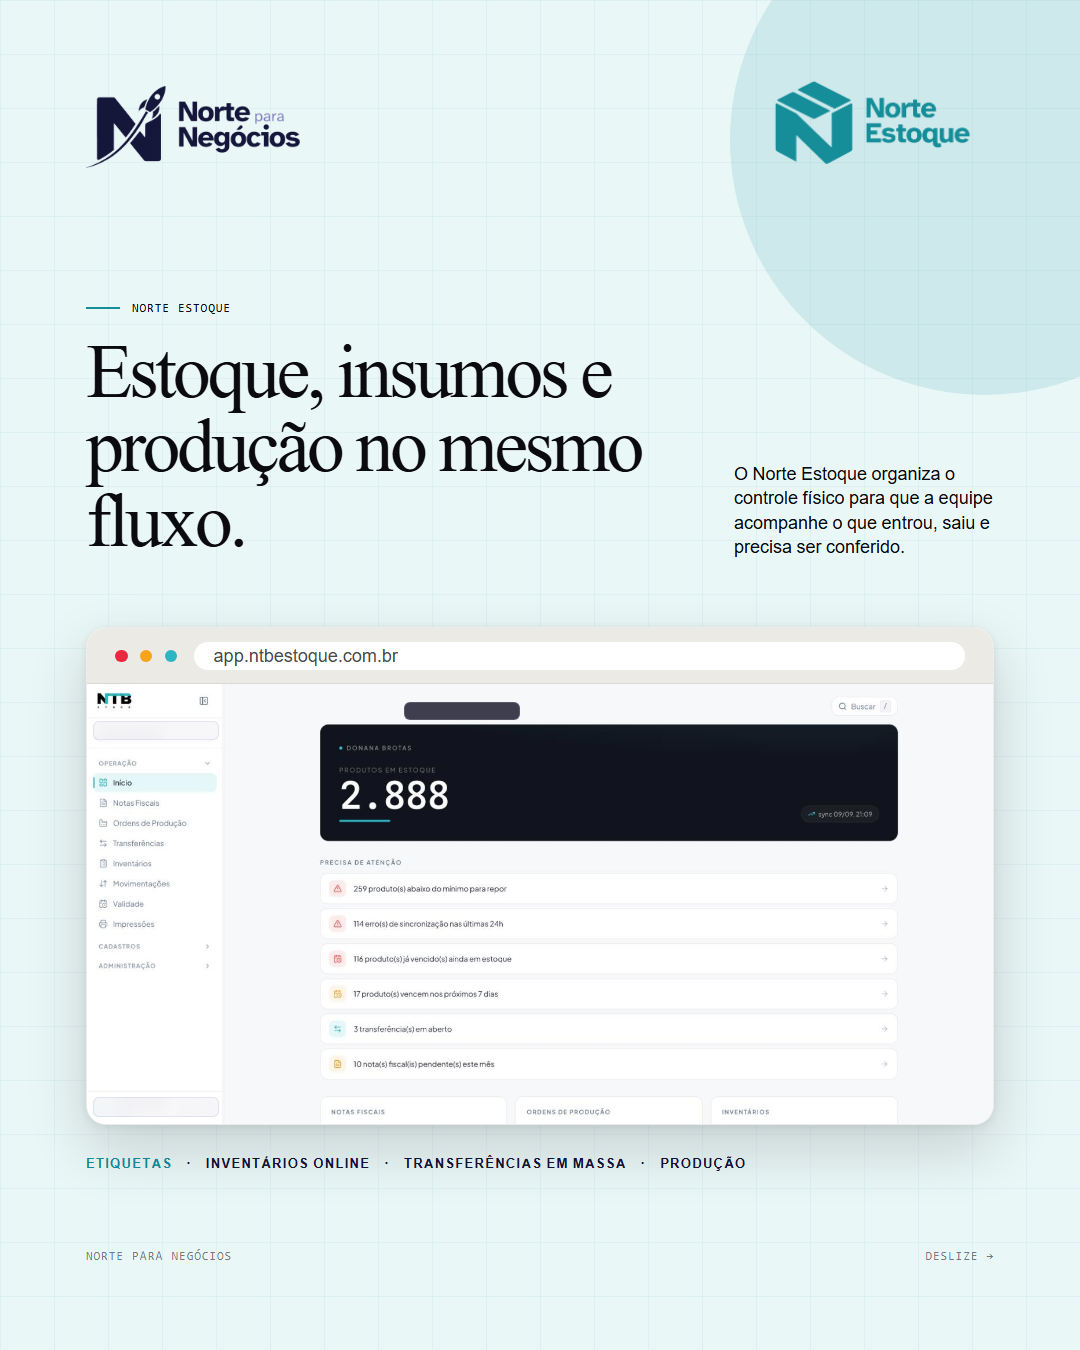
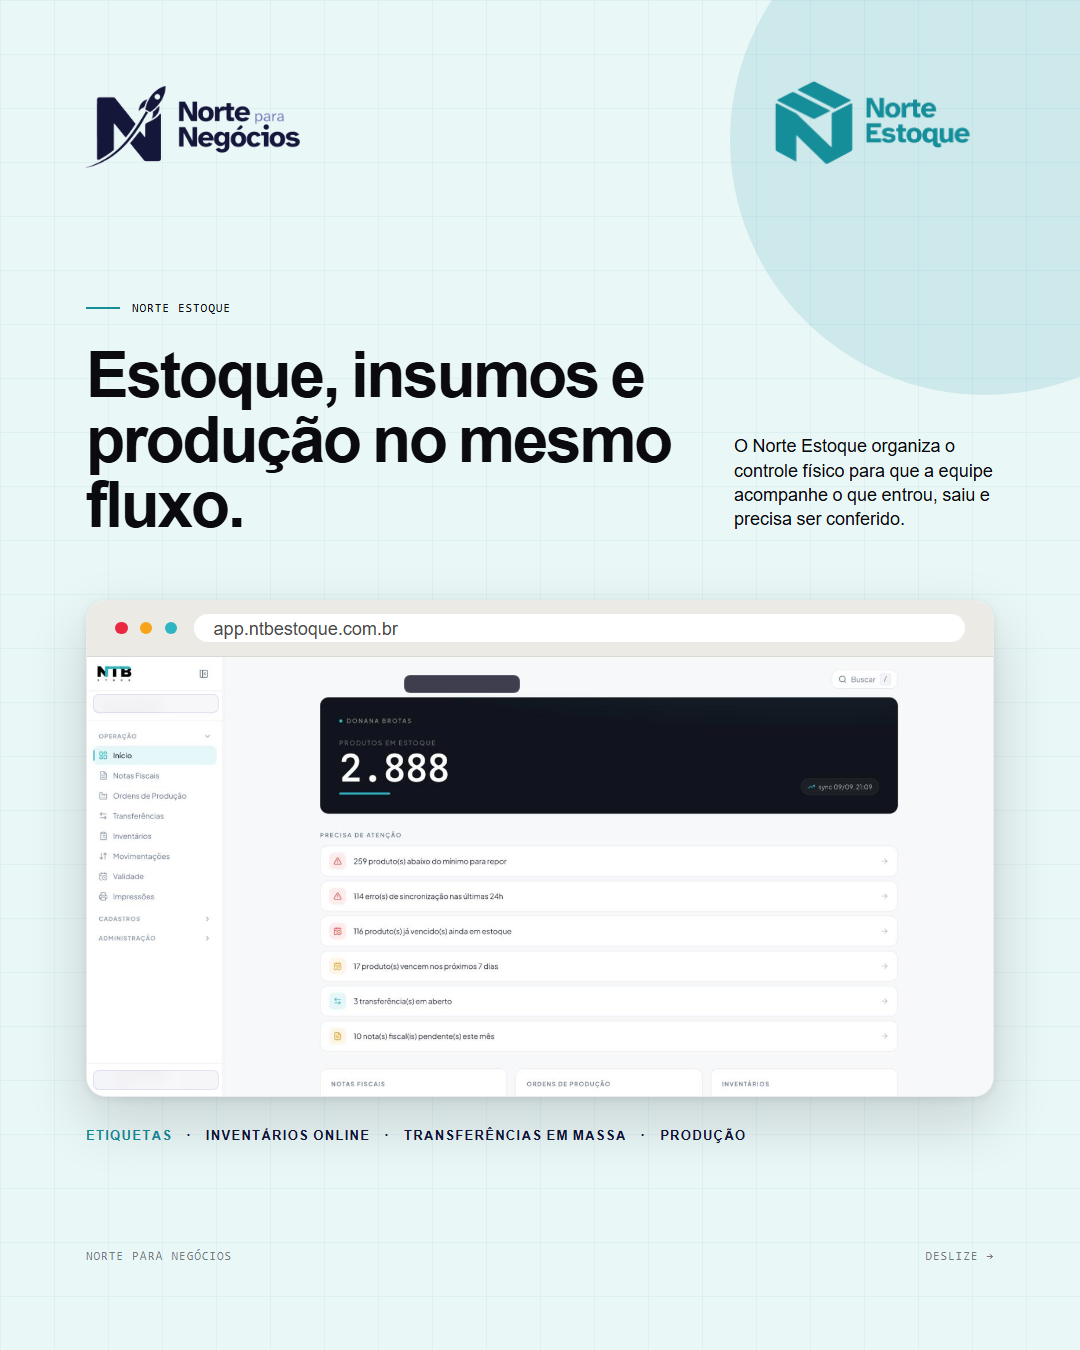
Alinha carrossel à identidade visual atual

Changed region(s): [[0.0611, 0.3111, 0.9167, 0.8711], [0.0611, 0.2489, 0.6417, 0.4044]]

diff --git a/src/templates/NorteNtbApresentacao.tsx b/src/templates/NorteNtbApresentacao.tsx
@@ -1,6 +1,6 @@
 import React from 'react';
 import {AbsoluteFill, Img, staticFile} from 'remotion';
-import {ensureSansLoaded, ensureMonoLoaded, ensureNewsreaderLoaded, FONT_SANS, FONT_MONO, FONT_SERIF_ROTAS} from '../lib/fonts';
+import {ensureSansLoaded, ensureMonoLoaded, FONT_SANS, FONT_MONO} from '../lib/fonts';
 import {GridTexture} from '../lib/GridTexture';
 import {BrowserFrame} from '../lib/DeviceFrame';
 import {productColors, neutral, brand} from '../lib/themes';
@@ -16,7 +16,6 @@ const WHITE = '#FBFBFE';
 function loadFonts(): void {
   ensureSansLoaded();
   ensureMonoLoaded();
-  ensureNewsreaderLoaded();
 }
 
 const Wordmark: React.FC<{light?: boolean}> = ({light = false}) => (
@@ -75,7 +74,7 @@ export const CarrosselCapa: React.FC = () => {
         <div style={{marginTop: 254, maxWidth: 850}}>
           <Overline light color={productColors.vendas}>Norte para Negócios · consultoria e sistemas</Overline>
           <div style={{height: 30}} />
-          <h1 style={{fontFamily: FONT_SERIF_ROTAS, fontWeight: 400, fontSize: 92, lineHeight: 0.98, letterSpacing: '-0.045em', margin: 0}}>
+          <h1 style={{fontFamily: FONT_SANS, fontWeight: 650, fontSize: 76, lineHeight: 1.02, letterSpacing: '-0.035em', maxWidth: 820, margin: 0}}>
             Damos o norte para a sua operação.
           </h1>
           <div style={{height: 34}} />
@@ -103,7 +102,7 @@ export const CarrosselSolucoes: React.FC = () => {
         <div style={{marginTop: 190}}>
           <Overline>Soluções Norte</Overline>
           <div style={{height: 30}} />
-          <h1 style={{fontFamily: FONT_SERIF_ROTAS, fontWeight: 400, fontSize: 70, lineHeight: 1.02, letterSpacing: '-0.04em', maxWidth: 820, margin: 0}}>
+          <h1 style={{fontFamily: FONT_SANS, fontWeight: 650, fontSize: 64, lineHeight: 1.04, letterSpacing: '-0.035em', maxWidth: 820, margin: 0}}>
             A Norte transforma problemas da operação em soluções práticas.
           </h1>
           <p style={{fontFamily: FONT_SANS, fontSize: 20, lineHeight: 1.35, maxWidth: 690, margin: '24px 0 0', color: neutral.cinzaMedio}}>
@@ -116,7 +115,7 @@ export const CarrosselSolucoes: React.FC = () => {
             <div style={{height: 16}} />
             <div style={{fontFamily: FONT_SANS, fontWeight: 700, fontSize: 13, letterSpacing: '0.11em', textTransform: 'uppercase', color: productColors.vendas}}>01 · solução para a operação de vendas</div>
             <div style={{height: 18}} />
-            <div style={{fontFamily: FONT_SERIF_ROTAS, fontSize: 38, lineHeight: 1.05}}>Do atendimento ao fechamento.</div>
+            <div style={{fontFamily: FONT_SANS, fontWeight: 600, fontSize: 32, lineHeight: 1.08, letterSpacing: '-0.025em'}}>Do atendimento ao fechamento.</div>
             <div style={{height: 18}} />
             <div style={{fontFamily: FONT_SANS, fontSize: 17, lineHeight: 1.35, color: neutral.cinzaMedio}}>Mesas, comandas e pedidos organizados para a equipe acompanhar o que precisa acontecer.</div>
           </div>
@@ -125,7 +124,7 @@ export const CarrosselSolucoes: React.FC = () => {
             <div style={{height: 16}} />
             <div style={{fontFamily: FONT_SANS, fontWeight: 700, fontSize: 13, letterSpacing: '0.11em', textTransform: 'uppercase', color: productColors.estoque}}>02 · solução para a operação de estoque</div>
             <div style={{height: 18}} />
-            <div style={{fontFamily: FONT_SERIF_ROTAS, fontSize: 38, lineHeight: 1.05}}>Do inventário à movimentação.</div>
+            <div style={{fontFamily: FONT_SANS, fontWeight: 600, fontSize: 32, lineHeight: 1.08, letterSpacing: '-0.025em'}}>Do inventário à movimentação.</div>
             <div style={{height: 18}} />
             <div style={{fontFamily: FONT_SANS, fontSize: 17, lineHeight: 1.35, color: neutral.cinzaMedio}}>Mais visibilidade sobre o estoque físico, as etiquetas, os inventários e as transferências.</div>
           </div>
@@ -154,7 +153,7 @@ export const CarrosselVendas: React.FC = () => {
           <div>
             <Overline light color={productColors.vendas}>Norte Vendas · restaurantes, bares e lanchonetes</Overline>
             <div style={{height: 26}} />
-            <h1 style={{fontFamily: FONT_SERIF_ROTAS, fontWeight: 400, fontSize: 72, lineHeight: 0.98, letterSpacing: '-0.045em', maxWidth: 630, margin: 0}}>
+            <h1 style={{fontFamily: FONT_SANS, fontWeight: 650, fontSize: 64, lineHeight: 1.02, letterSpacing: '-0.035em', maxWidth: 630, margin: 0}}>
               Pedido, cozinha, caixa e nota fiscal. Num sistema só.
             </h1>
           </div>
@@ -199,7 +198,7 @@ export const CarrosselEstoque: React.FC = () => {
           <div>
             <Overline color={productColors.estoque}>Norte Estoque</Overline>
             <div style={{height: 26}} />
-            <h1 style={{fontFamily: FONT_SERIF_ROTAS, fontWeight: 400, fontSize: 76, lineHeight: 0.98, letterSpacing: '-0.045em', maxWidth: 650, margin: 0}}>
+            <h1 style={{fontFamily: FONT_SANS, fontWeight: 650, fontSize: 64, lineHeight: 1.02, letterSpacing: '-0.035em', maxWidth: 650, margin: 0}}>
               Estoque, insumos e produção no mesmo fluxo.
             </h1>
           </div>
@@ -235,7 +234,7 @@ export const CarrosselFechamento: React.FC = () => {
         <div style={{marginTop: 236}}>
           <Overline light color={productColors.estoque}>Norte para Negócios</Overline>
           <div style={{height: 30}} />
-          <h1 style={{fontFamily: FONT_SERIF_ROTAS, fontWeight: 400, fontSize: 88, lineHeight: 0.98, letterSpacing: '-0.045em', maxWidth: 820, margin: 0}}>
+          <h1 style={{fontFamily: FONT_SANS, fontWeight: 650, fontSize: 72, lineHeight: 1.02, letterSpacing: '-0.035em', maxWidth: 820, margin: 0}}>
             Organização é o que dá direção à operação.
           </h1>
           <div style={{height: 34}} />

diff --git a/conteudo ntb/00-planejamento/04-familia-norte-identidade.md b/conteudo ntb/00-planejamento/04-familia-norte-identidade.md
@@ -39,14 +39,52 @@ Pontos confirmados para comunicação:
 
 | Uso | Cor |
 |---|---|
-| Norte para Negócios | `#484DB5` — azul principal |
+| Norte para Negócios | `#14163A` — azul-noite |
 | Norte Vendas | `#484DB5` — azul Norte |
 | Norte Estoque | `#168E9A` — verde-azulado |
-| Fundo profundo | `#0A091E` — Norte Vendas |
-| Fundo claro | `#F5F5F9` |
+| Fundo profundo | `#14163A` — azul-noite |
+| Fundo claro | `#FBFBFE` |
 | Preto | `#0B0B0F` |
 
-A tipografia da família é Atkinson Hyperlegible. O símbolo oficial é o N em perspectiva com o traço integrado da trajetória; o foguete não deve mais aparecer como mascote isolado nos posts.
+O símbolo oficial é o N em perspectiva com o traço integrado da trajetória; o foguete não deve mais aparecer como mascote isolado nos posts.
+
+## Regras completas da Família Norte
+
+### Qual marca entra em cada peça
+
+- **Norte para Negócios** é a marca-mãe e deve aparecer em peças institucionais, de posicionamento, consultoria, processos e visão de operação. Sua expressão é mais sóbria e usa o azul-noite `#14163A`.
+- **Norte Vendas** é a solução para restaurantes, bares e lanchonetes. Entra quando o conteúdo falar de pedidos, mesas, comandas, cozinha, caixa, fechamento ou NFC-e. Sua cor é o Azul Norte `#484DB5`.
+- **Norte Estoque** é a solução para estoque, insumos e produção. Entra quando o conteúdo falar de etiquetas, inventários, transferências, fichas técnicas, produção ou integração com o Omie. Sua cor é o verde-azulado `#168E9A`.
+
+### Versões do logo
+
+- **Horizontal:** usar em cabeçalhos de site, sistemas, propostas e apresentações. É a versão preferencial no topo dos carrosséis.
+- **Vertical:** usar em peças mais estreitas ou composições em que a assinatura horizontal não tenha espaço suficiente.
+- **Ícone N:** usar em foto de perfil, favicon, aplicativo, navegador ou como elemento de apoio. Não substituir o nome da marca por um N genérico.
+- Em fundo claro, usar o N oficial escuro ou a assinatura escura.
+- Em fundo azul-noite ou produto, usar a versão branca correspondente.
+- Não colocar a logo dentro de um quadrado adicional, placa ou moldura que não faça parte do arquivo oficial.
+
+### Cores de fundo
+
+- Norte para Negócios: azul-noite `#14163A`, branco `#FBFBFE` e preto `#0B0B0F`.
+- Norte Vendas: Azul Norte `#484DB5`, branco e preto.
+- Norte Estoque: verde-azulado `#168E9A`, branco e preto.
+- Em um slide claro, o N deve ser escuro. Em um slide escuro ou colorido, o N deve ser branco.
+- O produto apresentado deve manter sua cor própria mesmo quando aparece dentro de um carrossel institucional.
+
+### Tipografia
+
+O PDF oficial registra **Atkinson Hyperlegible** como tipografia da família. O site institucional publicado atualmente carrega **Geist Variable** para textos e títulos, além de **Geist Mono Variable** para rótulos e informações técnicas. Como os posts precisam conversar com o site vigente, os exports atuais seguem Geist: títulos e textos em Geist Variable, rótulos em Geist Mono Variable. Atkinson fica registrado como referência histórica do material de identidade e só deve ser usado se a marca decidir padronizar novamente essa fonte em todos os canais.
+
+### Direção de composição
+
+- Priorizar hierarquia editorial, bastante respiro e frases que expressem a visão da marca.
+- Usar o N como assinatura ou textura discreta, nunca como elemento decorativo sem função.
+- Mostrar os sistemas quando a mensagem for sobre produto, usando capturas reais e dados mascarados.
+- Não usar o foguete isolado como mascote, ilustração principal ou atalho visual da marca.
+- Não misturar o azul do Norte Vendas com o verde-azulado do Norte Estoque no mesmo produto.
+- Evitar travessões artificiais nas copies e evitar promessas não confirmadas.
 
 ## Aplicação no primeiro carrossel
 
